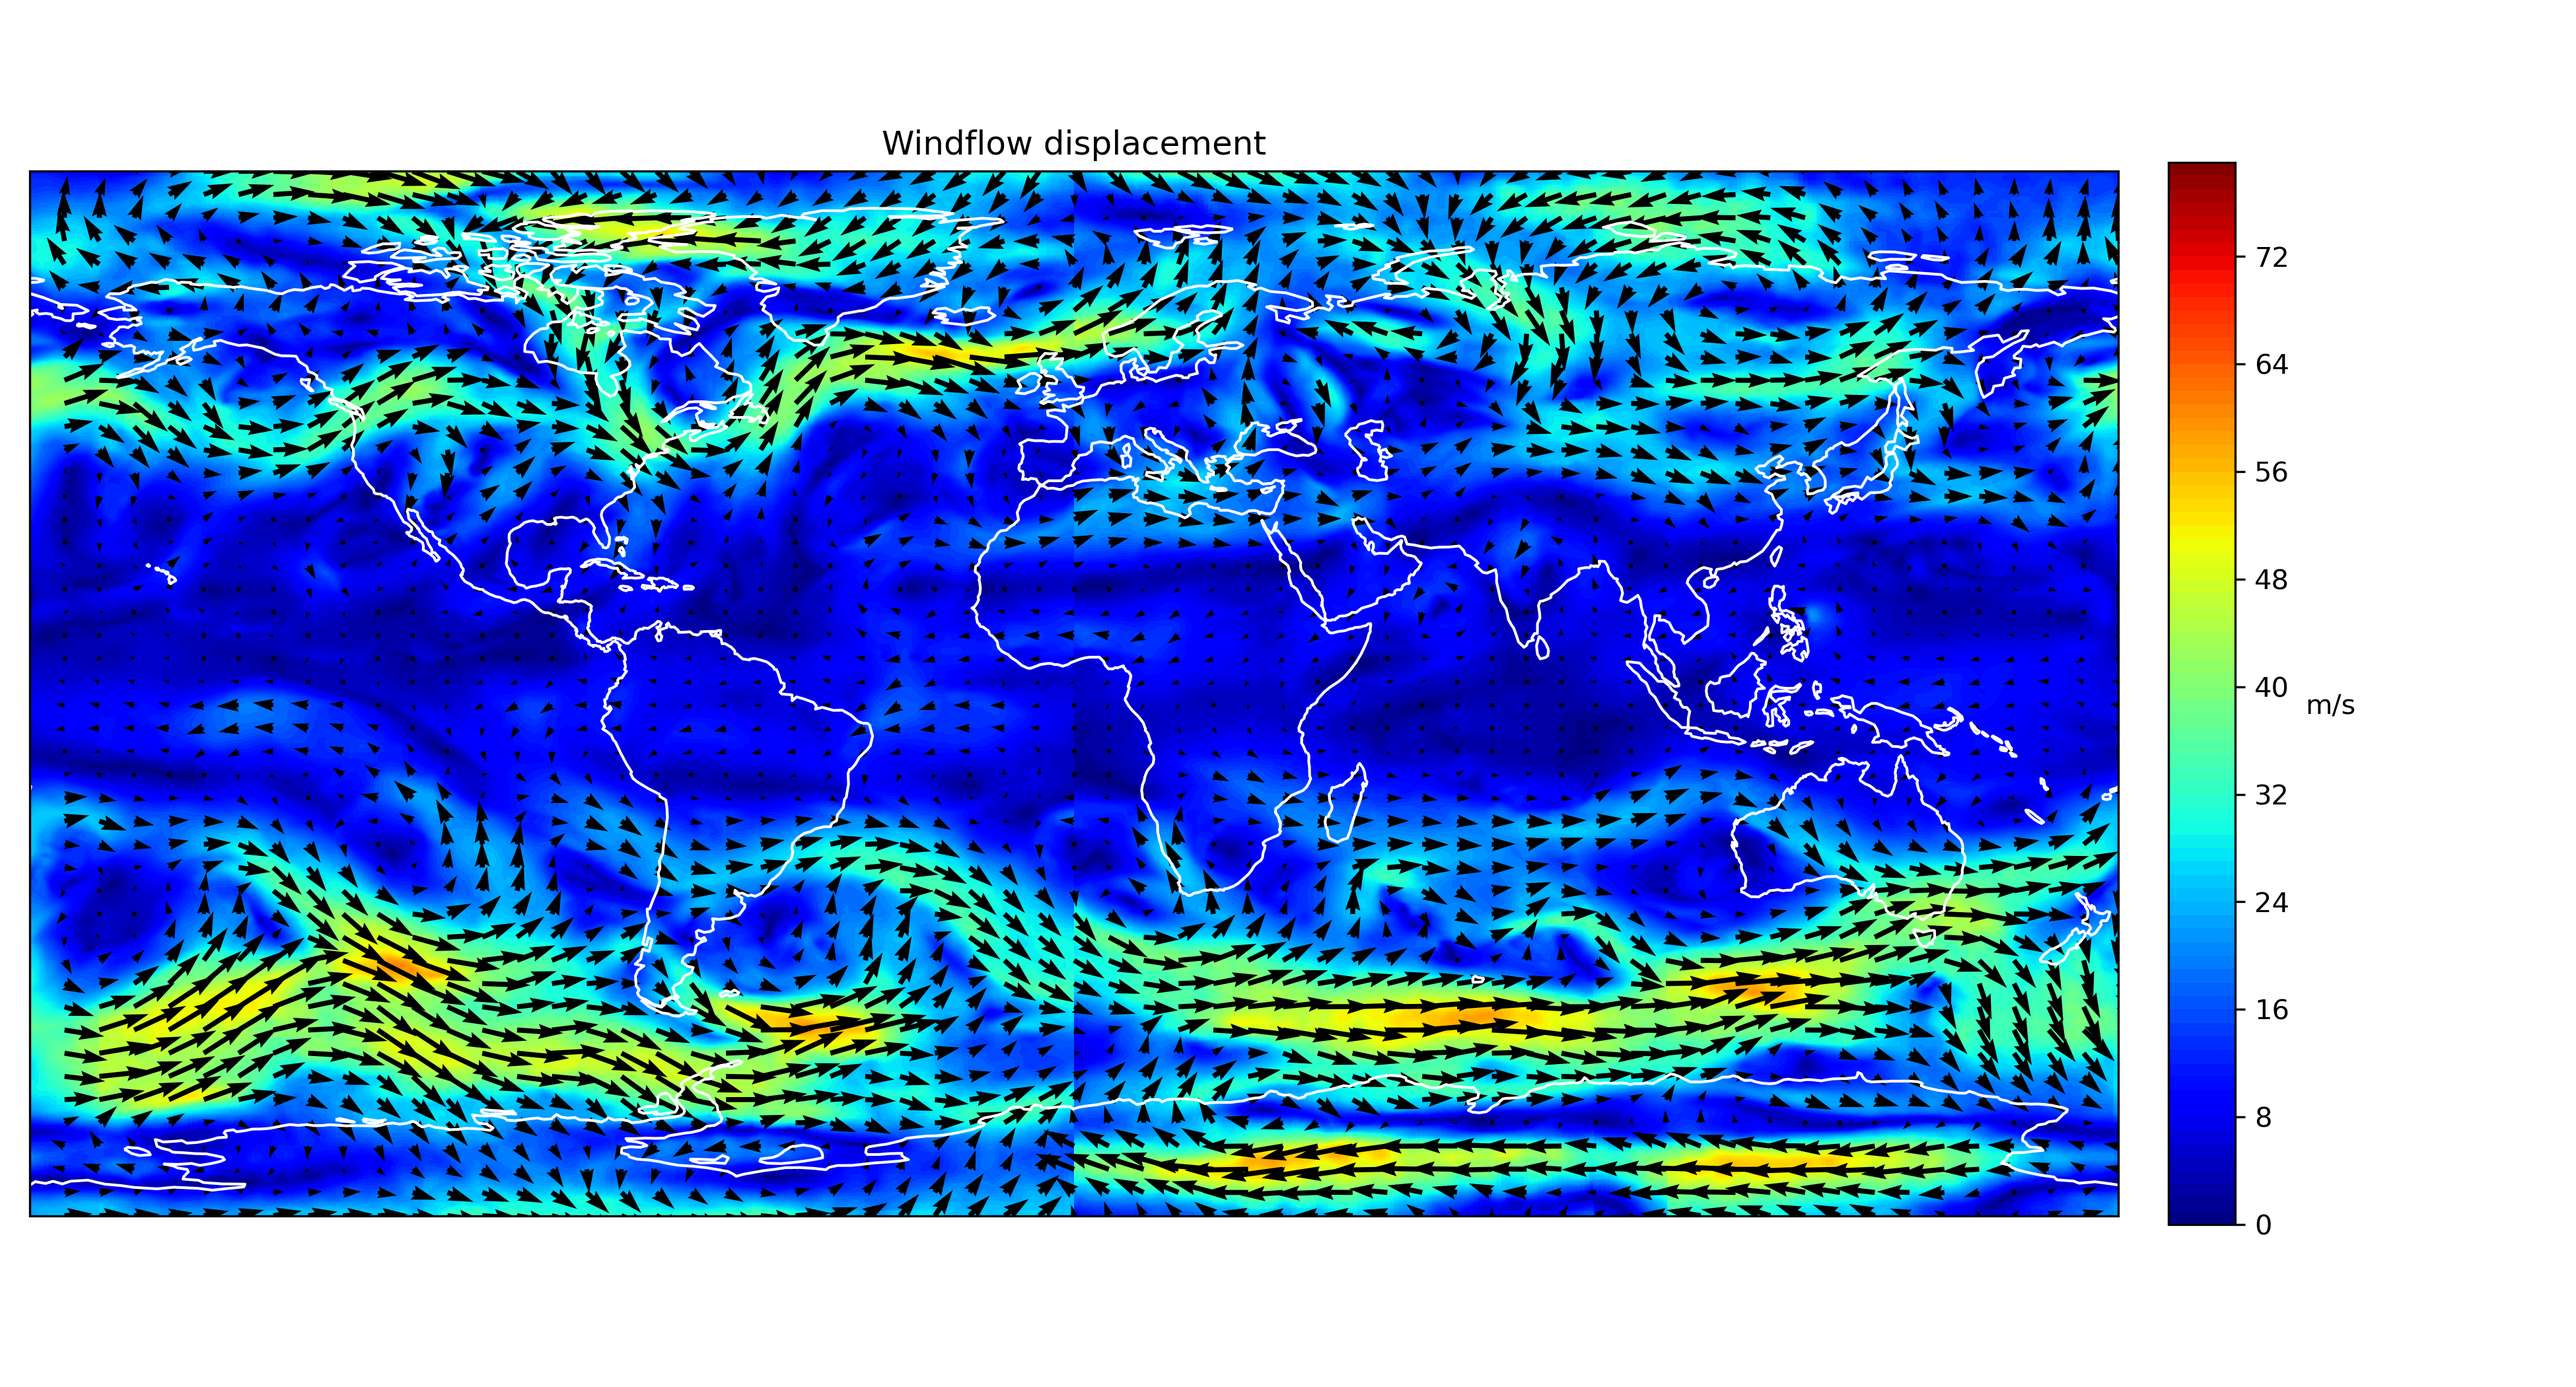
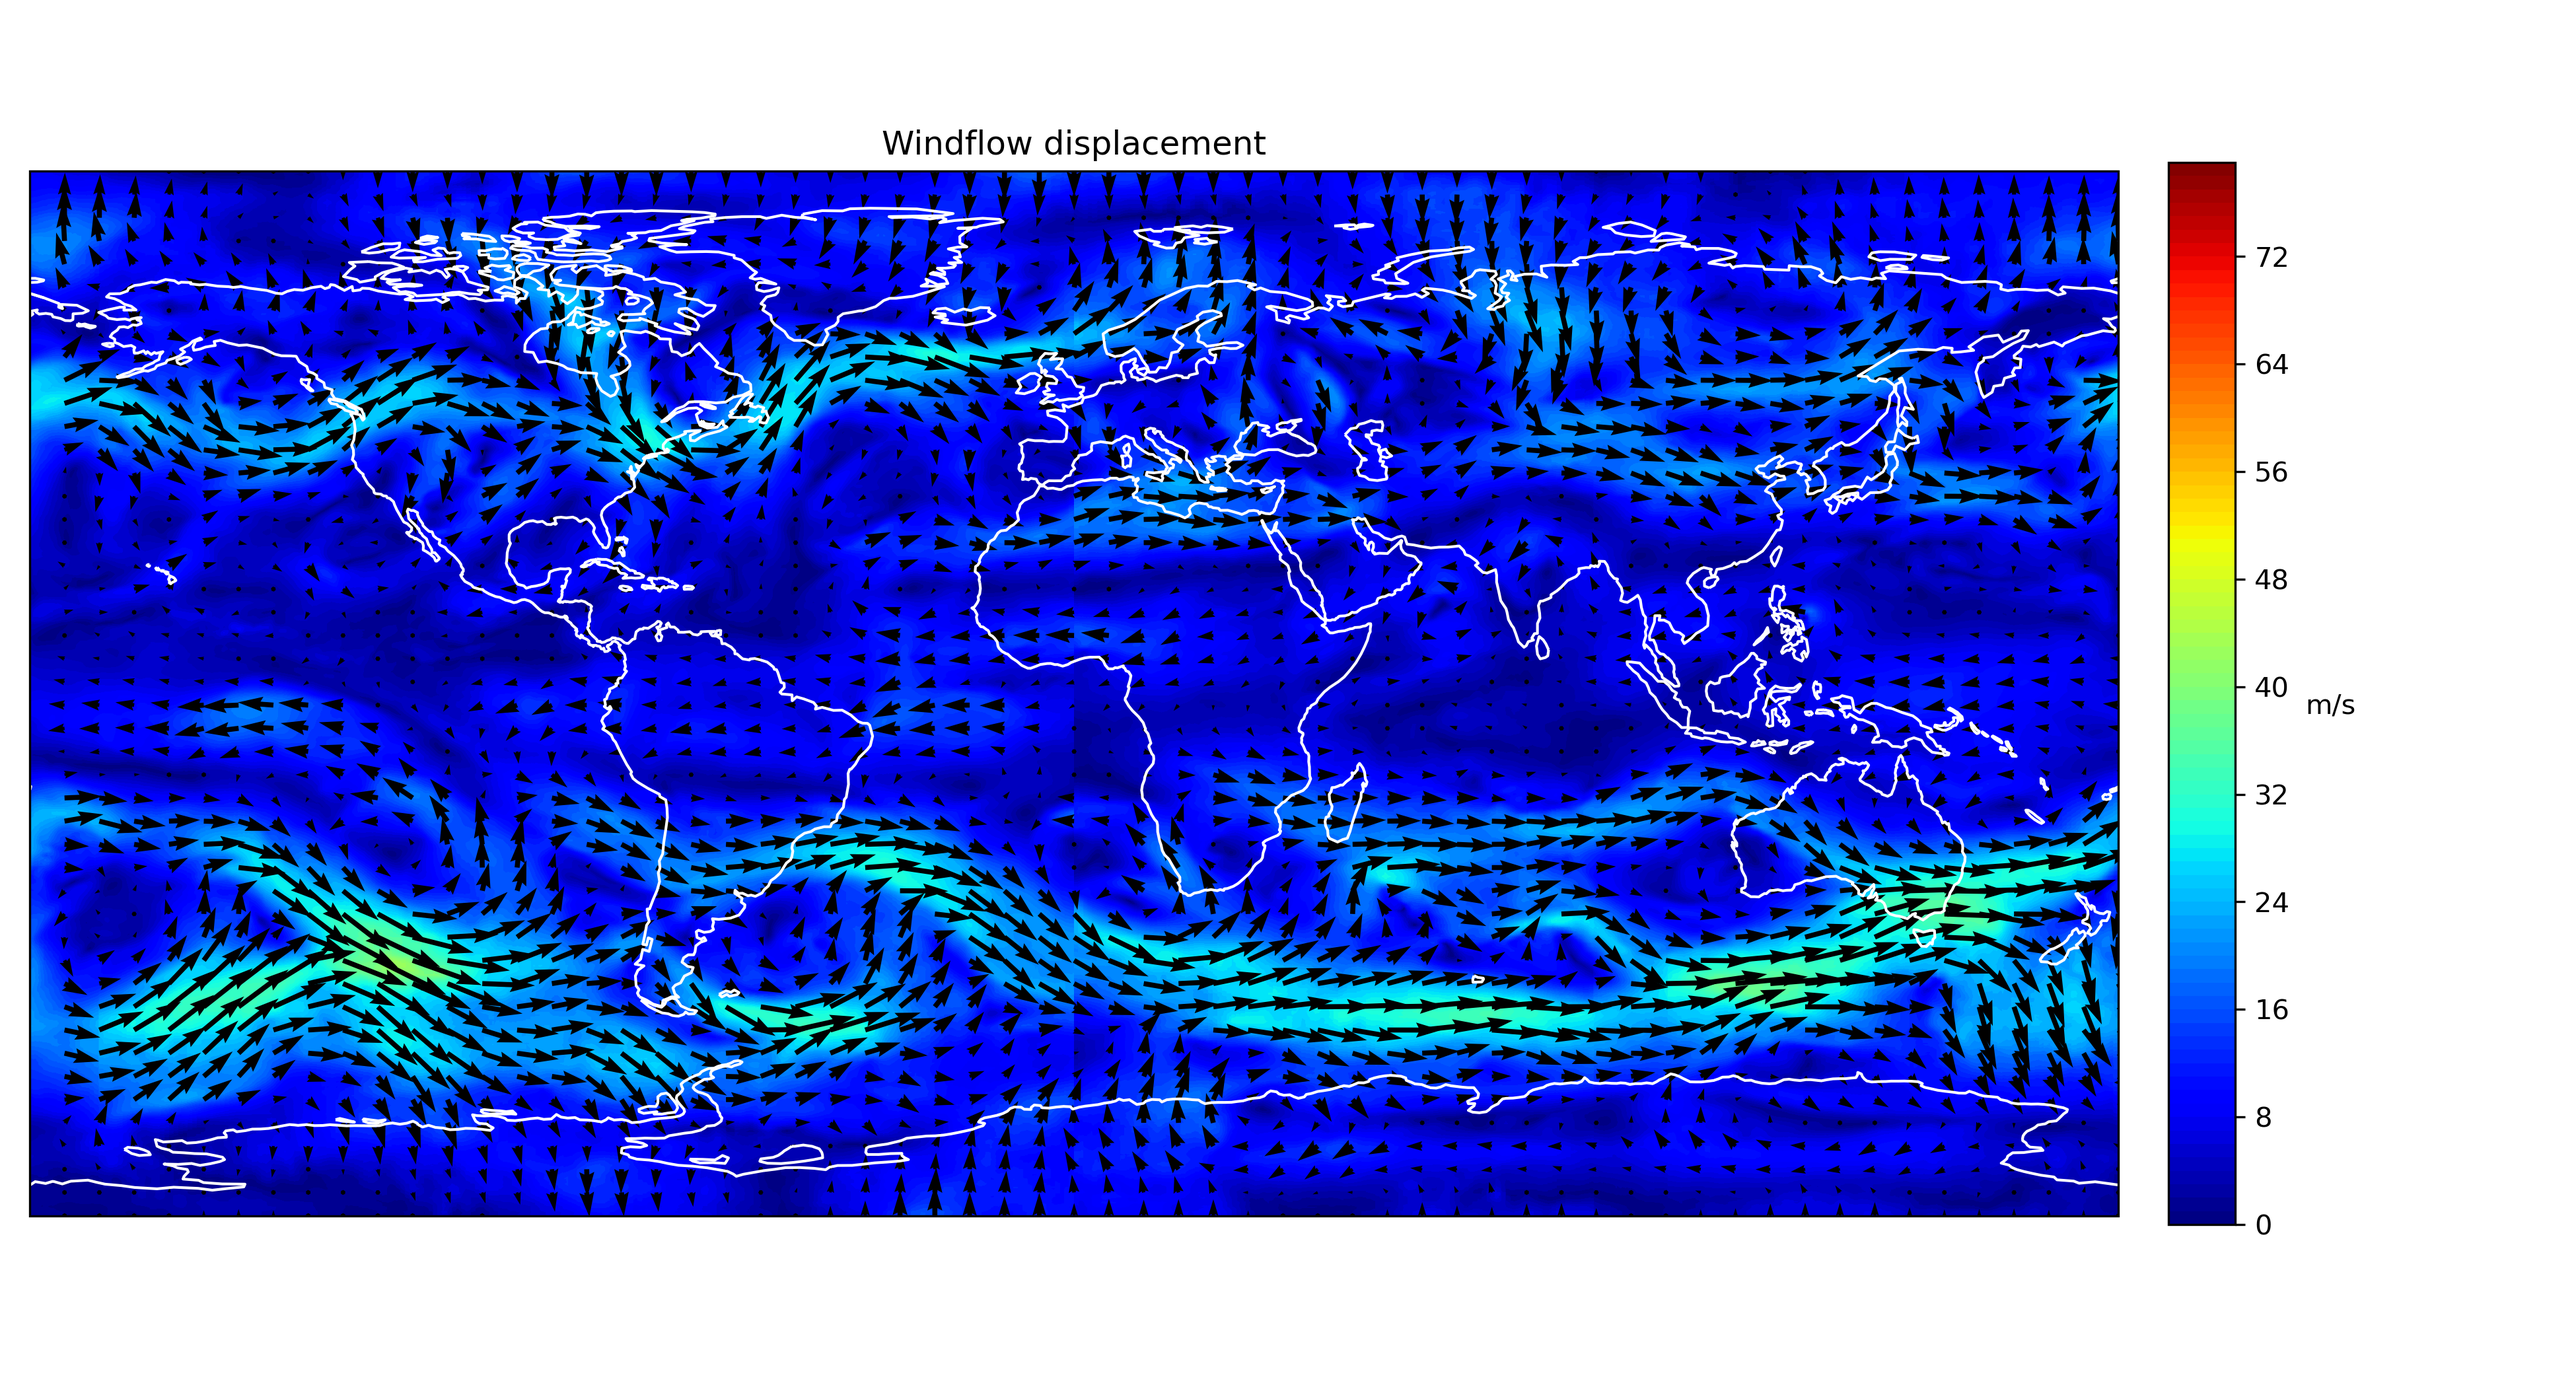
improved plots

diff --git a/humidity.py b/humidity.py
@@ -25,18 +25,11 @@ assert np.all(lat == w_lat)
 
 expanded_lat = np.tile(lat, (3600,1)).T
 mask = (expanded_lat <=90) & (expanded_lat >= -90) # mask the region of interest
-lat_mask = np.radians(expanded_lat[mask])  # convert latitude from degrees to radians
-
-#select masked regions
-eu_mask = eco_u[mask]
-ev_mask = eco_v[mask]
-
-wu_mask = w_u[mask]
-wv_mask = w_v[mask]
+lat_mask = np.radians(expanded_lat)  # convert latitude from degrees to radians
 
 #unit conversion to m/s
-wu_mask = (wu_mask * 0.1 * 111 * 1000 * np.cos(lat_mask)) / 10800 #Could add a *1.12 scaling term to minimize RMSE.
-wv_mask = (wv_mask * 0.1 * 111 * 1000 * 0.69) / 10800 #The 0.69 multiplicative scaling vector was added after empirical testing
+wu_mask = (w_u * 0.1 * 111 * 1000 * np.cos(lat_mask)) / 10800 #Could add a *1.12 scaling term to minimize RMSE.
+wv_mask = (w_v * 0.1 * 111 * 1000 * 0.69) / 10800 #The 0.69 multiplicative scaling vector was added after empirical testing
                                                           #Minimizes RMSE but theoretically it shouldn't be needed.
 
 #plot
@@ -69,7 +62,7 @@ plt.close()
 # windflow time 1
 fig, ax = plt.subplots(subplot_kw={'projection': projection}, figsize=(12, 7))
 im = ax.pcolormesh(lon, lat, gp_rad1, transform=projection, cmap=plt.cm.jet)
-qv = plt.quiver(lon[::60], lat[::40], w_u[::40, ::60], w_v[::40, ::60], color='black', width=0.0015)
+qv = plt.quiver(lon[::60], lat[::40], wu_mask[::40, ::60], wv_mask[::40, ::60], color='black', width=0.0015)
 cbar = plt.colorbar(im, shrink=0.7, ax=ax, label='Humidity kg kg-1')
 plt.title('Windflow Humidity - Snapshot 1')
 ax.coastlines(color='white')
@@ -80,7 +73,7 @@ plt.close()
 # windflow time 2
 fig, ax = plt.subplots(subplot_kw={'projection': projection}, figsize=(12, 7))
 im = ax.pcolormesh(lon, lat, gp_rad2, transform=projection, cmap=plt.cm.jet)
-qv = plt.quiver(lon[::60], lat[::40], w_u[::40, ::60], w_v[::40, ::60], color='black', width=0.0015)
+qv = plt.quiver(lon[::60], lat[::40], wu_mask[::40, ::60], wv_mask[::40, ::60], color='black', width=0.0015)
 cbar = plt.colorbar(im, ax=ax, shrink = 0.7, label='Humidity kg kg-1')
 plt.title('Windflow Humidity - Snapshot 2')
 ax.coastlines(color='white')

diff --git a/contours.py b/contours.py
@@ -46,22 +46,15 @@ plt.savefig('contour_quivers_eco.png',dpi = 300)
 
 expanded_lat = np.tile(lat, (3600,1)).T
 mask = (expanded_lat <=90) & (expanded_lat >= -90) # mask the region of interest
-lat_mask = np.radians(expanded_lat[mask])  # convert latitude from degrees to radians
-
-#select masked regions
-eu_mask = eco_u[mask]
-ev_mask = eco_v[mask]
-
-wu_mask = w_u[mask]
-wv_mask = w_v[mask]
+lat_mask = np.radians(expanded_lat)  # convert latitude from degrees to radians
 
 #unit conversion to m/s
-wu_mask = (wu_mask * 0.1 * 111 * 1000 * np.cos(lat_mask)) / 10800 #Could add a *1.12 scaling term to minimize RMSE.
-wv_mask = (wv_mask * 0.1 * 111 * 1000 * 0.69) / 10800 #The 0.69 multiplicative scaling vector was added after empirical testing
+wu_mask = (w_u * 0.1 * 111 * 1000 * np.cos(lat_mask)) / 10800 #Could add a *1.12 scaling term to minimize RMSE.
+wv_mask = (w_v * 0.1 * 111 * 1000 * 0.69) / 10800 #The 0.69 multiplicative scaling vector was added after empirical testing
                                                         #Minimizes RMSE but theoretically it shouldn't be needed.
 
 #calculate windspeed and plot
-ws = (w_u**2 + w_v**2)**0.5
+ws = (wu_mask**2 + wv_mask**2)**0.5
 max_ws = np.nanmax(ws)
 print("Windflow maximum wind speed:", max_ws)
 c_inv = np.arange(0, 80, 1)
@@ -74,7 +67,7 @@ cb.set_label('m/s',size=10,rotation=0,labelpad=15)
 cb.ax.tick_params(labelsize=10)
 
 # splice array:
-qv = plt.quiver(lon[::60], lat[::40], w_u[::40, ::60], w_v[::40, ::60], color='k')
+qv = plt.quiver(lon[::60], lat[::40], wu_mask[::40, ::60], wv_mask[::40, ::60], color='k')
 plt.tight_layout()
 plt.title('Windflow displacement')
 plt.savefig('contour_quivers_windflow.png',dpi = 300)
